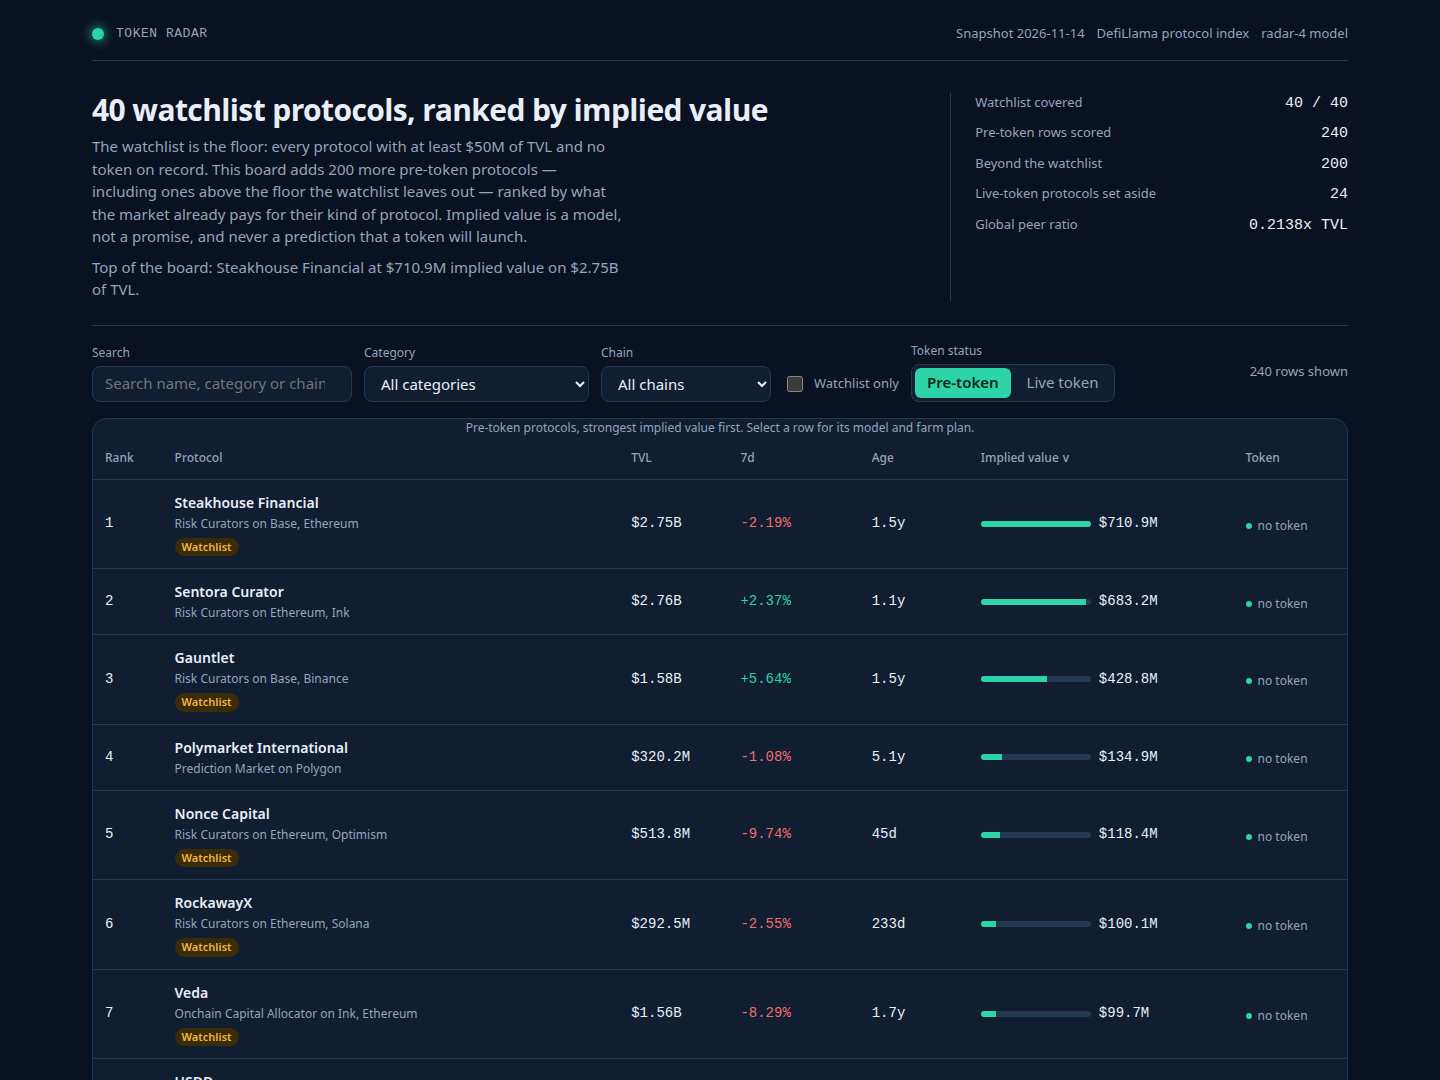
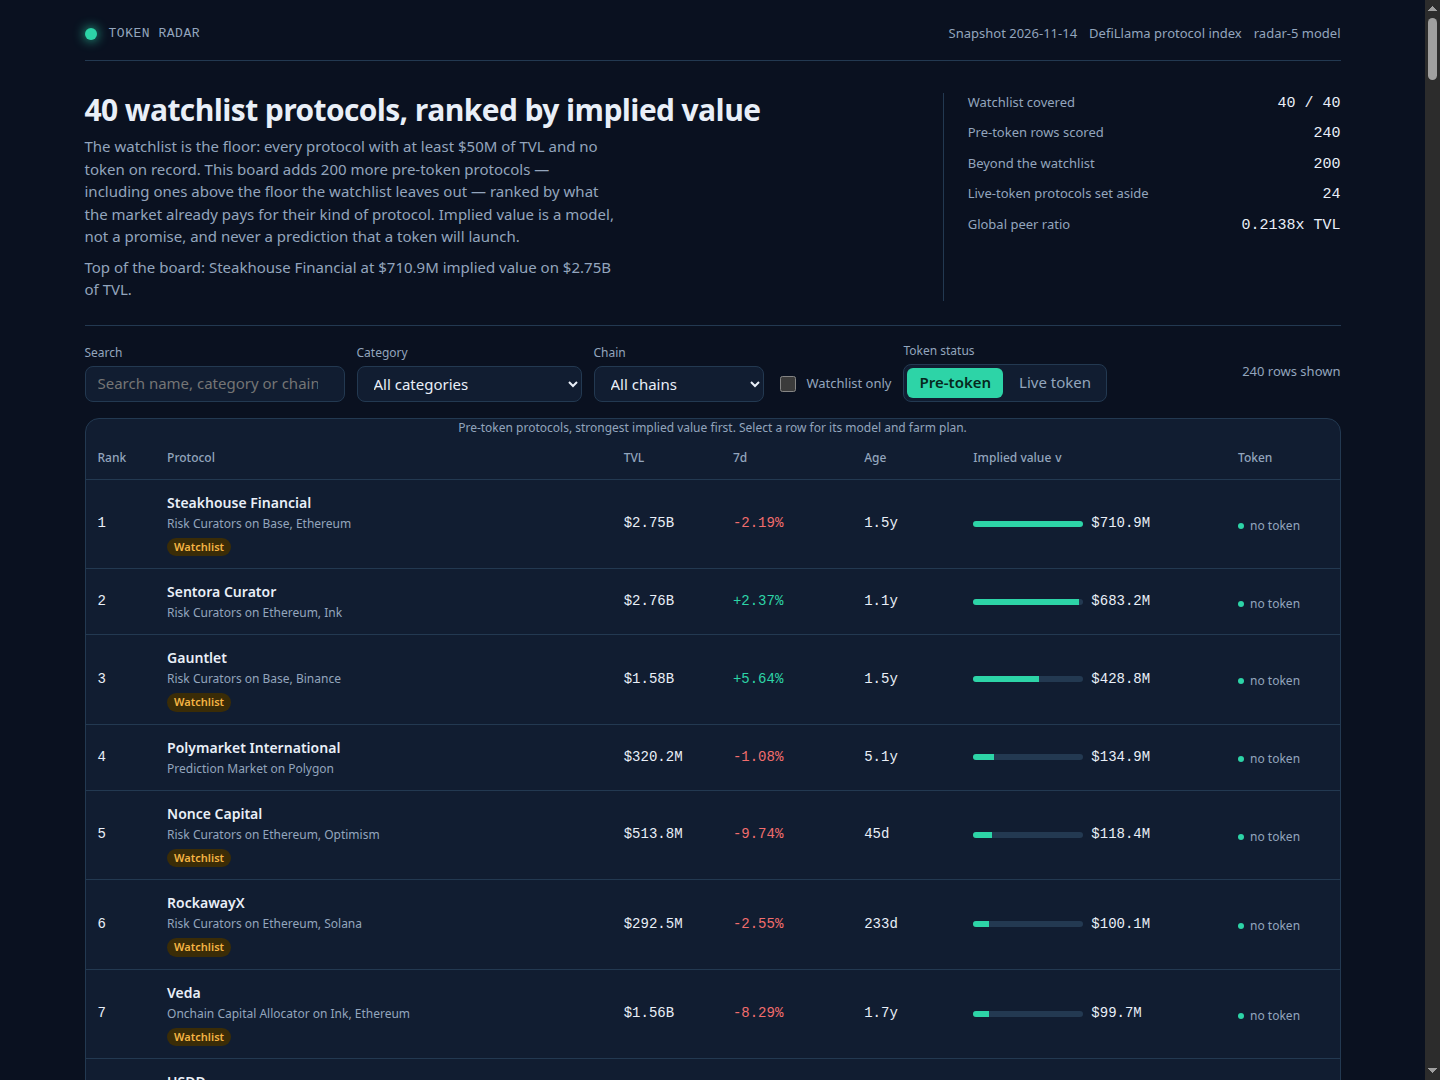
radar-5: farm-plan numbers that agree with themselves
- DEX plans no longer say 'in the $40-$60 range': the range is now a band
  20% above and below the pool's current price, in the action and the risk step.
- Lending plans no longer borrow a fixed $20 against a $50 supply (40%)
  while the risk step says keep it under a quarter: the borrow is now a
  fifth of the capital supplied ($10/$20/$30/$50), the weekly step repays
  a quarter of that borrow, and the risk step states the fifth.
- Scoring unchanged: implied values and ranks identical to radar-4.
- Screenshots retaken: board, USDD detail (rank 8, lending), CDP filter.

diff --git a/lib/model.ts b/lib/model.ts
@@ -1,5 +1,9 @@
-// The token radar's model (radar-4): one snapshot of the protocol universe in, one ranked
-// board out. radar-3 valued every protocol at its category's peer ratio (or the global
+// The token radar's model (radar-5): one snapshot of the protocol universe in, one ranked
+// board out. radar-5 keeps radar-4's scoring exactly and fixes the farm plans, where
+// two instructions disagreed with themselves: the DEX plan's fixed "$40-$60 range"
+// is now a band 20% above and below the pool's current price, and the lending
+// plan's fixed $20 borrow is now a fifth of the capital supplied, so it stays
+// under the quarter its own risk step demands. See the farmSteps comment below.
 // median when the category had fewer than 3 priced peers), times growth, maturity and
 // chain reach — and the top of its board was nearly a TVL table: Risk Curators and
 // Onchain Capital Allocator, the two thinnest categories at the top, both collapsed to
@@ -166,7 +170,7 @@ export const MODEL: ModelConstants = {
 };
 
 /** The model's version label: the dashboard names it. */
-export const MODEL_VERSION = 'radar-4';
+export const MODEL_VERSION = 'radar-5';
 
 /** Board size: watchlist (40) + rankable protocols above the floor the watchlist leaves
  *  out + the best rankable protocols below the floor, by implied value. */
@@ -595,6 +599,13 @@ function capitalFor(p: SnapshotProtocol): number {
   return 50;
 }
 
+/** How much a lending plan borrows against the capital supplied: a fifth of it, so
+ *  the borrow always stays under the quarter the plan's own risk step demands.
+ *  A fixed $20 borrow was 40% of a $50 supply and 8% of a $250 one. */
+function borrowFor(capital: number): number {
+  return Math.max(10, Math.round(capital * 0.2));
+}
+
 /** How long to hold, from the protocol's age: younger protocols get a longer qualifying window. */
 function holdDaysFor(age: number | null): number {
   if (age === null) return 30;
@@ -632,8 +643,8 @@ function familyOf(p: SnapshotProtocol): string {
 function actionFor(p: SnapshotProtocol, capital: number, chain: string): string {
   const name = p.name;
   switch (familyOf(p)) {
-    case 'lending': return `Supply $${capital} of USDC to ${name} on ${chain}, then borrow $20 of USDC against it so the position shows both sides.`;
-    case 'dex': return `Provide $${capital} of liquidity to ${name}'s main pool on ${chain} in the $40-$60 range, and keep the position open.`;
+    case 'lending': return `Supply $${capital} of USDC to ${name} on ${chain}, then borrow $${borrowFor(capital)} of USDC against it so the position shows both sides.`;
+    case 'dex': return `Provide $${capital} of liquidity to ${name}'s main pool on ${chain} in a band 20% above and below the pool's current price, and keep the position open.`;
     case 'yield': return `Deposit $${capital} of USDC into ${name}'s highest-TVL vault on ${chain} and leave the yield compounding.`;
     case 'bridge': return `Bridge $${capital} of USDC to ${chain} through ${name}, then use the bridged funds once inside its app.`;
     case 'staking': return `Stake $${capital} of the chain's staking asset through ${name} on ${chain} and keep the receipt token.`;
@@ -650,7 +661,7 @@ function actionFor(p: SnapshotProtocol, capital: number, chain: string): string 
 /** The category's weekly recurring action. */
 function weeklyFor(p: SnapshotProtocol, capital: number, chain: string): string {
   switch (familyOf(p)) {
-    case 'lending': return `Each week, repay $5 of the borrow and re-supply $5, so the position shows fresh activity without new capital.`;
+    case 'lending': return `Each week, repay a quarter of the borrow and re-supply the same amount, so the position shows fresh activity without new capital.`;
     case 'dex': return `Each week, swap $10 through ${p.name} on ${chain} and collect the fees the pool pays out.`;
     case 'yield': return `Each week, claim the vault yield on ${chain} and re-deposit it instead of withdrawing it.`;
     case 'bridge': return `Each month, bridge $25 of USDC through ${p.name} to ${chain} and back, keeping the route active.`;
@@ -668,8 +679,8 @@ function weeklyFor(p: SnapshotProtocol, capital: number, chain: string): string 
 /** The category's main risk, stated plainly so the plan is not a slogan. */
 function riskFor(p: SnapshotProtocol, capital: number, chain: string): string {
   switch (familyOf(p)) {
-    case 'lending': return `Risk: a sharp price fall can liquidate the $20 borrow, so keep the borrow under a quarter of the $${capital} supply and never borrow the same asset you supplied.`;
-    case 'dex': return `Risk: the pool's price can move out of the $40-$60 range and stop earning fees, so check the range weekly and reset it once if it drifts.`;
+    case 'lending': return `Risk: a sharp price fall can liquidate the $${borrowFor(capital)} borrow, so keep the borrow at a fifth of the $${capital} supply and never borrow the same asset you supplied.`;
+    case 'dex': return `Risk: the pool's price can move outside the ±20% band around the price you entered at and stop earning fees, so check the band weekly and reset it once if it drifts.`;
     case 'yield': return `Risk: the vault's strategy can lose value in a fast market, so treat the $${capital} as at-risk capital and never farm with money you need back.`;
     case 'bridge': return `Risk: a bridge can pause withdrawals, so never bridge more than the $${capital} at once and keep a second route off ${chain} in mind.`;
     case 'staking': return `Risk: the staking asset can fall while it is locked, so the $${capital} can be worth less when you unstake than when you staked it.`;
@@ -690,6 +701,16 @@ function riskFor(p: SnapshotProtocol, capital: number, chain: string): string {
  * the protocol's share of its category so the farmer can see how central it is; the
  * hold step states how long the protocol has already run with no token; the last two
  * steps say what to do when the token actually launches, and what can go wrong.
+ * radar-5 fixes two places where the farm plan's own numbers disagreed with
+ * themselves: a DEX plan told the farmer to provide liquidity "in the $40-$60
+ * range", a fixed dollar range that is meaningless for an arbitrary pool —
+ * the range is now a band 20% above and below the pool's current price, in
+ * both the action and the risk step; and a lending plan told the farmer to
+ * borrow a fixed $20 against a $50 supply (40% of it) while its own risk
+ * step said to keep the borrow under a quarter of the supply — the borrow is
+ * now a fifth of the capital supplied ($10 on $50, $20 on $100, $30 on $150,
+ * $50 on $250), the weekly step repays a quarter of that borrow, and the
+ * risk step states the fifth, so the three steps finally agree.
  */
 export function farmSteps(p: SnapshotProtocol, age: number | null, catShare: number): FarmStep[] {
   const chain = chainOf(p);

diff --git a/dashboard/app.js b/dashboard/app.js
@@ -1,4 +1,4 @@
-// Token Radar, radar-4 dashboard. Reads window.RADAR (written beside dashboard/ by
+// Token Radar, radar-5 dashboard. Reads window.RADAR (written beside dashboard/ by
 // main.ts) and renders the ranked board, filters, a per-protocol detail drawer with the
 // model's own inputs and the protocol's farm plan, and the methodology. No network:
 // every byte it shows is in data.js. Farm steps come from data.js, so the page shows
@@ -282,6 +282,7 @@
           return el('tr', null, el('td', { text: p.category }), el('td', { class: 'num', text: p.raw_ratio === null ? 'n/a' : p.raw_ratio.toFixed(3) + 'x' }), el('td', { class: 'num', text: String(p.peers) }), el('td', { class: 'num', text: p.ratio.toFixed(3) + 'x' }));
         }))
       ),
+      el('p', { class: 'sub', text: 'Farm plans are derived from each protocol\u2019s own figures, never from a hand-written list: the capital follows its TVL, the hold follows its age, and the action follows its category. A lending plan borrows a fifth of the capital supplied, so the borrow always stays under the quarter its own risk step demands, and a DEX plan\u2019s range is a band 20% above and below the pool\u2019s current price, never a fixed dollar range.' }),
       el('p', { class: 'sub', text: 'Disclaimer: every protocol here records no token in the snapshot — that is DefiLlama\u2019s record, never proof it has none. Implied value is this entry\u2019s own estimate of what a token would be worth if the protocol\u2019s record stayed as it is. It is not a price, not a prediction that a token will launch, and not financial advice. Farming costs gas and puts capital at risk; the farm plan states the risk for each protocol.' })
     );
   }

diff --git a/main.ts b/main.ts
@@ -1,4 +1,4 @@
-// Token Radar (radar-4) entry: Node 22, standard library only.
+// Token Radar (radar-5) entry: Node 22, standard library only.
 //
 // Reads the sealed snapshot from /input/snapshot.json (or --input <file|dir>), scores
 // every pre-token protocol with the model in lib/model.ts, writes the ranked board to

diff --git a/README.md b/README.md
@@ -27,7 +27,21 @@ in `.makefun/owner.json` (the wallet the repo is claimed by).
 - `screenshots/` — board, detail and filtered views
 - `dossier.json` — built with the vendored `vendor/makefun-board.ts`
 
-## The model (radar-4)
+## The model (radar-5)
+
+radar-5 keeps radar-4's scoring exactly and fixes the farm plans, where two
+instructions disagreed with themselves: a DEX plan told the farmer to provide
+liquidity "in the $40-$60 range", a fixed dollar range that is meaningless for
+an arbitrary pool — the range is now a band 20% above and below the pool's
+current price, in both the action and the risk step; and a lending plan told
+the farmer to borrow a fixed $20 against a $50 supply (40% of it) while its
+own risk step said to keep the borrow under a quarter of the supply — the
+borrow is now a fifth of the capital supplied ($10 on $50, $20 on $100, $30
+on $150, $50 on $250), the weekly step repays a quarter of that borrow, and
+the risk step states the fifth, so the three steps finally agree. The change
+touches the farm plans of the 25 DEX rows and the 28 lending rows on the
+board; implied values and ranks are unchanged, because the scoring did not
+move.
 
 Implied value is what the market already pays for the same kind of protocol,
 adjusted for size, momentum, age, reach and category headroom. Nothing names a
